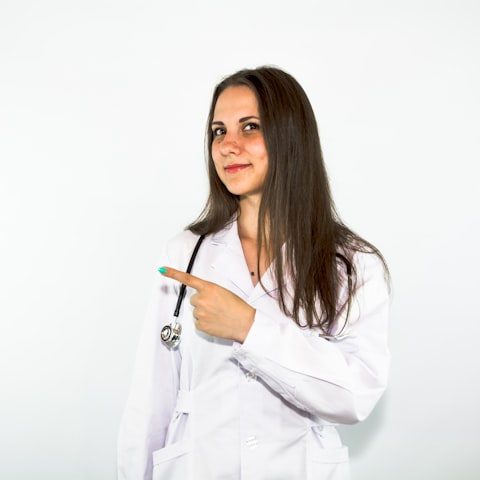
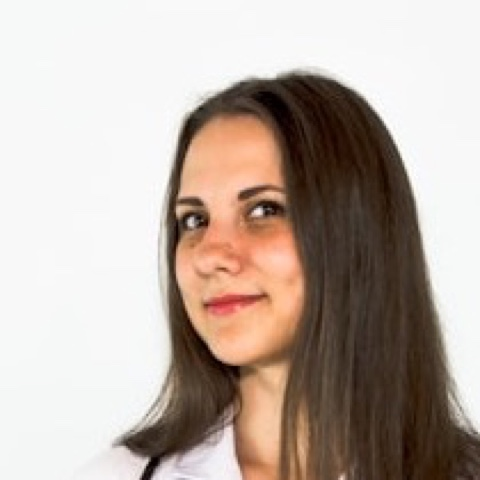
UI pass three: a sheet opens showing all it holds, the booking pill is a pill, the map's corners say which axis
Found reviewing the audit's after-captures at 390 and 1440:

- Sheets open at the detent that shows all they hold: half when that is enough, full when it is
  not, measured before the first frame. Settings at half hid "Your data" and Restore under the
  fold on a phone, a drag away from anybody looking for Delete: above the fold, 17 → 45 of its 45
  words. The grabber still toggles both, and a sheet reopened mid-exit is pinned to come all the
  way back.
- The profile's "How to book" / "See available times" is a pill of its own width past a phone,
  not an 816px ink bar (the taste law allows the ink pill once a screen, never an ink block), and
  carries the yellow arrow every other ink primary has; the strip under it lost the rule that ran
  42px past the column.
- My ADHD on a phone: each corner of the chart carries its chip's glyph on the chip's stone disc,
  so a point on the shape can be told from the others without a word. The chart scales 1.1 rather
  than 1.3 on a phone so the discs fit its frame; from 768px the chips ring the chart themselves
  and these stand down.
- Chloe Bennett's example portrait is cropped to head and shoulders like the others: it was a
  stock pose, pointing, a small figure in a white square, and it leads "A woman doctor".

Verified: typecheck; 4,650 unit tests; 73 of the 74 browser tests of the 12 specs these touch
(the sheet, profile, My ADHD, controls, WCAG states, reduced motion, care plan, device data,
[…]

diff --git a/e2e/app-shell.spec.ts b/e2e/app-shell.spec.ts
@@ -202,23 +202,55 @@ test("the sheet's handle is a control, not an ornament, the drag has a tap equiv
   await page.goto("/");
   await page.getByRole("button", { name: "Settings" }).click();
   const sheet = page.getByRole("dialog", { name: "Settings" });
-  const half = (await sheet.boundingBox())!.height;
+
+  // A sheet opens at the detent that shows all it holds. Settings holds more than half a phone, so
+  // it opens full, and its last control is on screen without a drag or a scroll.
+  const shrink = page.getByRole("button", { name: /Shrink Settings/i });
+  await expect(shrink).toBeVisible();
+  await expect(page.getByRole("button", { name: "Choose file" })).toBeInViewport({ ratio: 1 });
+  await expect.poll(async () => (await sheet.boundingBox())!.y).toBeLessThan(844 * 0.2);
+  const full = (await sheet.boundingBox())!.height;
 
   // Every gesture needs a tap equivalent: the grabber cycles the detents for anybody who cannot
   // drag, which is Material's own accessibility rule for this exact component.
-  const handle = page.getByRole("button", { name: /Expand Settings/i });
-  const handleBox = (await handle.boundingBox())!;
+  const handleBox = (await shrink.boundingBox())!;
   expect(handleBox.height, "the handle is under the 48px floor its own guidance sets").toBeGreaterThanOrEqual(48);
-  await handle.click();
-  await expect.poll(async () => (await sheet.boundingBox())!.height).toBeGreaterThan(half);
+  await shrink.click();
+  await expect.poll(async () => (await sheet.boundingBox())!.height).toBeLessThan(full - 1);
 
-  await page.getByRole("button", { name: /Shrink Settings/i }).click();
-  await expect.poll(async () => (await sheet.boundingBox())!.height).toBeLessThan(half + 1);
+  await page.getByRole("button", { name: /Expand Settings/i }).click();
+  await expect.poll(async () => (await sheet.boundingBox())!.height).toBeGreaterThan(full - 1);
 
   // An explicit close control exists, so dismissal is never gesture-only.
   await page.getByRole("button", { name: "Close Settings", exact: true }).click();
   await expect(page.getByRole("dialog", { name: "Settings" })).toHaveCount(0);
 });
+
+// Closed and opened again straight away, while it is still leaving (Escape, then Enter on the
+// control focus returns to), a sheet comes all the way back, never stopping part way up with its
+// lower half under the window.
+for (const [name, viewport] of [["a phone", { width: 390, height: 844 }], ["a desk", { width: 1280, height: 720 }]] as const) {
+  test(`a sheet reopened while it is leaving comes all the way back, on ${name}`, async ({ page }) => {
+    await page.setViewportSize(viewport);
+    await page.goto("/");
+    const open = page.getByRole("button", { name: "Settings" });
+    const sheet = page.getByRole("dialog", { name: "Settings" });
+    for (let round = 0; round < 3; round += 1) {
+      await open.click();
+      await expect(sheet).toBeVisible();
+      // Escape hands focus back to Settings, so Enter straight after opens it again mid-exit.
+      await page.keyboard.press("Escape");
+      await page.keyboard.press("Enter");
+      await expect.poll(async () => {
+        const box = await sheet.last().boundingBox();
+        return box ? Math.round(box.y + box.height) <= viewport.height : false;
+      }, { message: "the sheet sits wholly inside the window" }).toBe(true);
+      await expect(sheet.last()).toHaveCSS("transform", "none");
+      await page.keyboard.press("Escape");
+      await expect(sheet).toHaveCount(0);
+    }
+  });
+}
 
 test("the switch inside the sheet still changes the roster it names", async ({ page }) => {
   await page.goto("/");

diff --git a/app/styles/map.css b/app/styles/map.css
@@ -74,21 +74,21 @@
   overflow: visible;
 }
 
-/* Under 768px the axis words are a grid BELOW the chart, not a ring around it, so the 70-unit
-   margin the viewBox reserves on every side for that ring is dead space. Measured at 390: the
+/* Under 768px the axis words are a grid BELOW the chart, not a ring around it, so most of the
+   70-unit margin the viewBox reserves on every side for that ring is spare. Measured at 390: the
    hexagon drew at R 115 inside a 320px frame, 72% of the room it had, with 45px empty on all four
-   sides. Scaling it is the same drawing 30% larger in the same layout box — the axis grid below
-   still clears it by 38px — and it also brings the rings back to the weight they carry at 768px
-   and up (0.8 CSS px here against 1.14 there; 1.04 after). From 768px the ring of labels is real
-   and already sits 2px off the viewport edge, so the margin is load-bearing and nothing changes. */
+   sides. It was scaled 1.3 to fill it; it is 1.1 now (2026-09-28) because the margin carries each
+   axis's glyph at its corner (`map-corner`), so a point on the shape can be told from the others,
+   and at 1.1 the discs' outer edge, 225 of the viewBox's 250 units, still sits inside the frame.
+   From 768px the ring of labels is real and already sits 2px off the viewport edge, so the margin
+   is load-bearing and nothing changes. */
 @media (max-width: 767.98px) {
   .map-screen .map-chart{
-    transform: scale(1.3);
+    transform: scale(1.1);
   }
-  /* The scale grows the SVG's BOX as well as its drawing, and the box is 28% empty margin, so
-     without this the element reaches 13px past both edges of a 390 viewport and the screen scrolls
-     sideways. The drawing ends 30px inside the frame, so clipping the frame removes the overflow
-     and touches nothing that is drawn. */
+  /* The scale grows the SVG's BOX as well as its drawing, so without this the element reaches
+     past both edges of a 390 viewport and the screen scrolls sideways. The drawing, corner discs included, ends inside the frame, so clipping the frame
+     removes the overflow and touches nothing that is drawn. */
   .map-screen .map-chart-frame{
     overflow: clip;
   }
@@ -205,6 +205,13 @@
   border-radius: 999px;
   background: var(--stone);
   color: var(--ink);
+}
+
+/* The chips' discs, at the chart's corners on a phone. From 768px the chips are at the corners. */
+.map-screen .map-corner circle { fill: var(--stone); }
+.map-screen .map-corner svg { color: var(--ink); }
+@media (min-width: 768px) {
+  .map-screen .map-corner { display: none; }
 }
 
 .map-screen .map-axis-name{

diff --git a/app/sheet.tsx b/app/sheet.tsx
@@ -27,7 +27,7 @@
 
 import { AnimatePresence, motion, useReducedMotion } from "motion/react";
 import { createPortal } from "react-dom";
-import { useCallback, useEffect, useId, useRef, useState, useSyncExternalStore, type ReactNode, type RefObject } from "react";
+import { useCallback, useEffect, useId, useLayoutEffect, useRef, useState, useSyncExternalStore, type ReactNode, type RefObject } from "react";
 import { X } from "@phosphor-icons/react";
 
 /** The heights a sheet rests at, as a share of the viewport. */
@@ -130,7 +130,6 @@ export function Sheet({
   useEffect(() => {
     if (!open) return;
     opener.current = openedBy?.current ?? (document.activeElement instanceof HTMLElement ? document.activeElement : null);
-    setDetent("half");
     const first = panel.current?.querySelector<HTMLElement>("[data-sheet-initial-focus]") ?? panel.current;
     first?.focus({ preventScroll: true });
     return () => opener.current?.focus({ preventScroll: true });
@@ -164,6 +163,22 @@ export function Sheet({
     document.addEventListener("keydown", onKey);
     return () => document.removeEventListener("keydown", onKey);
   }, [open, onClose]);
+
+  /**
+   * A sheet opens at the detent that shows all it holds: half when that is enough, full when it is
+   * not. At half, Settings hid "Your data" under the fold on a phone, a drag away from anybody
+   * looking for Delete. Measured at half before the first frame is painted, so nobody sees half
+   * first; every sheet closes back to half, so the next one is measured the same way.
+   */
+  useLayoutEffect(() => {
+    if (!open) {
+      setDetent("half");
+      return;
+    }
+    if (panelled) return;
+    const body = panel.current?.querySelector<HTMLElement>(".sheet-body");
+    if (body && body.scrollHeight > body.clientHeight + 1) setDetent("full");
+  }, [open, panelled]);
 
   const cycleDetent = useCallback(() => setDetent((d) => (d === "half" ? "full" : "half")), []);
   // O249: the height is animated, not set — a detent change is a move, with the sheet's own spring.

diff --git a/app/my-adhd-radar.tsx b/app/my-adhd-radar.tsx
@@ -37,6 +37,10 @@ const AMBIENT_R = R * 0.92;
 /** An axis nothing has reached still shows its node, just off centre, rather than vanishing. */
 const MIN_REACH = 0.1;
 const NODE_R = 4.5;
+/** Where each axis's glyph sits on a phone: just outside the outer ring, the size of a chip's disc. */
+const CORNER_REACH = 1.14;
+const CORNER_R = 20;
+const GLYPH = 20;
 
 function angleAt(index: number, count: number): number {
   return (Math.PI * 2 * index) / count - Math.PI / 2;
@@ -130,6 +134,19 @@ export function MyAdhdRadar({
               ))}
             </>
           )}
+          {/* Each corner carries its chip's glyph: on a phone the chips sit in a grid under the
+              chart, and without it a point on the shape could not be told from the others. From
+              768px the chips ring the chart themselves and these stand down (map.css). */}
+          {points.map((p, i) => {
+            const [x, y] = pointAt(i, n, CORNER_REACH);
+            const Glyph = AXIS_ICON[p.aspect].icon;
+            return (
+              <g key={p.aspect} className="map-corner">
+                <circle cx={round(x)} cy={round(y)} r={CORNER_R} />
+                <Glyph x={round(x - GLYPH / 2)} y={round(y - GLYPH / 2)} size={GLYPH} weight="bold" />
+              </g>
+            );
+          })}
           <polygon className="map-you" points={path(shape)} />
           {points.map((p, i) => {
             const [x, y] = shape[i]!;

diff --git a/app/globals.css b/app/globals.css
@@ -5512,6 +5512,16 @@ button.notfound-primary { border: 0; cursor: pointer; font: inherit; font-size: 
   font-weight: 650;
 }
 
+/* Past a phone the one primary is a pill of its own width, not an 816px ink bar: the taste law
+   allows the ink pill once a screen, never an ink block. */
+@media (min-width: 600px) {
+  .patient-v2 .profile-footer .primary-button {
+    width: fit-content;
+    min-width: 280px;
+    padding-inline: 32px;
+  }
+}
+
 /* Secondary result controls stay available without sitting between the request and first doctor. */
 /* O226: no hairlines — see .results-head. A quiet underlined control, not a bar pretending to be
    a section: it reads as the tertiary thing it is. */
@@ -6430,6 +6440,11 @@ select { caret-color: var(--route-strong); }
 .patient-v2 .profile-footer {
   background: color-mix(in srgb, var(--paper) 94%, transparent);
   backdrop-filter: blur(18px);
+}
+/* Past a phone the pill floats on the frosted strip: the strip is wider than the column above it,
+   and its rule was the one thing that showed it, 42px past the content on each side. */
+@media (min-width: 600px) {
+  .patient-v2 .profile-footer { border-top-color: transparent; }
 }
 
 /* Clinician walkthrough --------------------------------------------------- */

diff --git a/app/finder-stages/profile-stage.tsx b/app/finder-stages/profile-stage.tsx
@@ -3,6 +3,7 @@
 import { CARE_NEEDS, IDENTITY_LABELS, publicCareProfile, publicIdentity } from "@/support/care-preferences";
 import {
   ArrowLeft,
+  ArrowRight,
   ArrowsLeftRight,
   CaretRight,
   Translate,
@@ -306,6 +307,7 @@ export function ProfileStage({
             that the button leads somewhere true, not that it leads somewhere at all. */}
         <Pressable className="primary-button" type="button" onClick={onBook}>
           {clinician.booking.via === "healthengine" ? "See available times" : "How to book"}
+          <ArrowRight size={17} weight="bold" aria-hidden="true" />
         </Pressable>
       </div>
     </MotionScreen>

diff --git a/qa/ux-2026-09/README.md b/qa/ux-2026-09/README.md
@@ -563,3 +563,49 @@ experiment, with no line left to say why. 28 → 25 words.
 | --- | --- | --- |
 | Before | ![Start end screen, before, 390](start-end-module-before-390.jpg) | ![Start end screen, before, 1440](start-end-module-before-1440.jpg) |
 | After | ![Start end screen, after, 390](start-end-module-after-390.jpg) | ![Start end screen, after, 1440](start-end-module-after-1440.jpg) |
+
+## Refinement pass three, 2026-09-28
+
+Found reviewing pass two's captures. Before is `main` at c1f6a212, after is this pass, both production
+builds; words are `measure()` from `scripts/text-budget-lib.mjs`.
+
+### Settings on a phone
+
+A sheet opens at the detent that shows all it holds: half when that is enough, full when it is not.
+Settings at half cut off under "Include example profiles", with Restore and Delete a drag away.
+45 words either way; above the fold, 17 → 45.
+
+| Before, 390 | After, 390 |
+| --- | --- |
+| ![Settings, before, 390](settings-whole-before-390.jpg) | ![Settings, after, 390](settings-whole-after-390.jpg) |
+
+### A profile's booking button
+
+Past a phone it is a pill of its own width with the yellow arrow every ink primary carries, not an
+816px ink bar; the strip under it lost the rule that ran 42px past the column. On a phone it is the
+same full-width pill, now with the arrow. 48 → 48 words.
+
+| | 390 | 1440 |
+| --- | --- | --- |
+| Before | ![Profile, before, 390](profile-book-before-390.jpg) | ![Profile, before, 1440](profile-book-before-1440.jpg) |
+| After | ![Profile, after, 390](profile-book-after-390.jpg) | ![Profile, after, 1440](profile-book-after-1440.jpg) |
+
+### My ADHD, lived in, on a phone
+
+Each corner of the chart carries its chip's glyph on the chip's stone disc, so a point on the shape
+can be told from the others; the chart scales 1.1 rather than 1.3 so the discs fit its frame. From
+768px the chips ring the chart and these stand down. No words: 53 → 53.
+
+| Before, 390 | After, 390 |
+| --- | --- |
+| ![My ADHD, before, 390](my-adhd-corners-before-390.jpg) | ![My ADHD, after, 390](my-adhd-corners-after-390.jpg) |
+
+### Finder, "A woman doctor"
+
+Chloe Bennett's example portrait is cropped to head and shoulders like every other: it was a stock
+pose, pointing, a small figure in a white square, at the top of this list.
+
+| | 390 | 1440 |
+| --- | --- | --- |
+| Before | ![A woman doctor, before, 390](finder-portrait-before-390.jpg) | ![A woman doctor, before, 1440](finder-portrait-before-1440.jpg) |
+| After | ![A woman doctor, after, 390](finder-portrait-after-390.jpg) | ![A woman doctor, after, 1440](finder-portrait-after-1440.jpg) |
